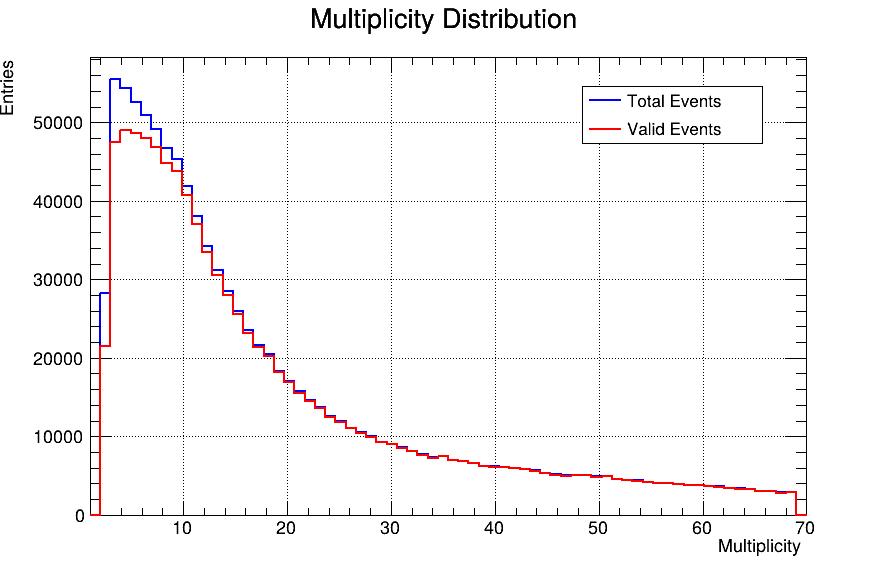
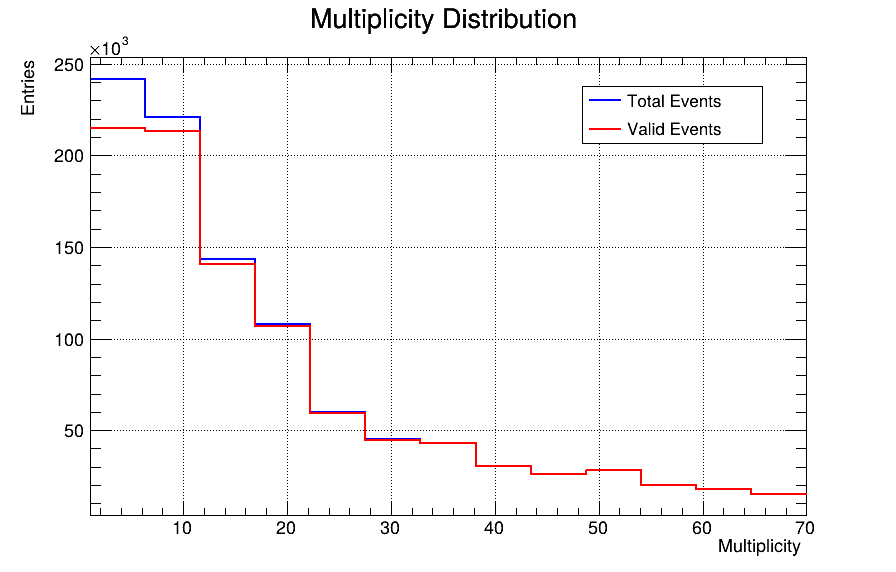
modified analysis and event

diff --git a/project/macros/analysis.C b/project/macros/analysis.C
@@ -77,7 +77,7 @@ void analysis(unsigned int events = 1000000) {
     const double ResMin = -0.05;
     const double ResMax = 0.05;
     
-    const int nMultBins = 70;
+    const int nMultBins = 13;
     const double MultMin = 1; 
     const double MultMax = 70;
     
@@ -86,7 +86,7 @@ void analysis(unsigned int events = 1000000) {
     const double zMax = 20;
 
 
-    const int nZProfileBins = 54;
+    const int nZProfileBins = 10;
     const double zProfileMin = -13.5;  
     const double zProfileMax = 13.5;
 
@@ -141,7 +141,7 @@ void analysis(unsigned int events = 1000000) {
     
     
     for(int i = 0; i < nMultBins; ++i) {
-        mult_bins[i] = i + 0.5;  // Center of each bin
+        mult_bins[i] = histMultValid->GetBinCenter(i);  // Center of each bin
     }
     
     
@@ -296,7 +296,7 @@ void analysis(unsigned int events = 1000000) {
     canvasGraph->SetTicks(1, 1);
     canvasGraph->SetGrid();
     graphEff->Draw("AP");
-    graphEff->GetYaxis()->SetRangeUser(0.85, 1.05);
+    graphEff->GetYaxis()->SetRangeUser(0.85, 1.001);
     canvasGraph->SaveAs("../plots/Efficiency_vs_Multiplicity.png");
 
     TCanvas* canvasHist = new TCanvas("canvasHist", "Z Residuals", 900, 600);
@@ -308,6 +308,7 @@ void analysis(unsigned int events = 1000000) {
     TCanvas* canvasMultZDiff = new TCanvas("canvasMultZDiff", "Absolute Z Difference vs Multiplicity", 800, 600);
     canvasMultZDiff->SetTicks(1, 1);
     canvasMultZDiff->SetGrid();
+    graphZDiff->GetYaxis()->SetRangeUser(0, 0.08);
     graphZDiff->Draw("AP");
     canvasMultZDiff->SaveAs("../plots/ZDiff_vs_Multiplicity.png");
 
@@ -315,7 +316,7 @@ void analysis(unsigned int events = 1000000) {
     canvasEffZ->SetTicks(1, 1);
     canvasEffZ->SetGrid();
     graphEffZ->Draw("AP");
-    graphEffZ->GetYaxis()->SetRangeUser(0.75, 1.05);
+    graphEffZ->GetYaxis()->SetRangeUser(0.8, 1.001);
     canvasEffZ->SaveAs("../plots/Efficiency_vs_Z.png");
 
 

diff --git a/project/headers/Event.h b/project/headers/Event.h
@@ -17,7 +17,6 @@ class Event : public TRandom3{
     Event(const Event& source); 
     virtual ~Event();
 
-    void ChangeSeed(unsigned int newseed){Eseed=newseed;};
 
     // Function to extract random numbers based on different distributions //
 
